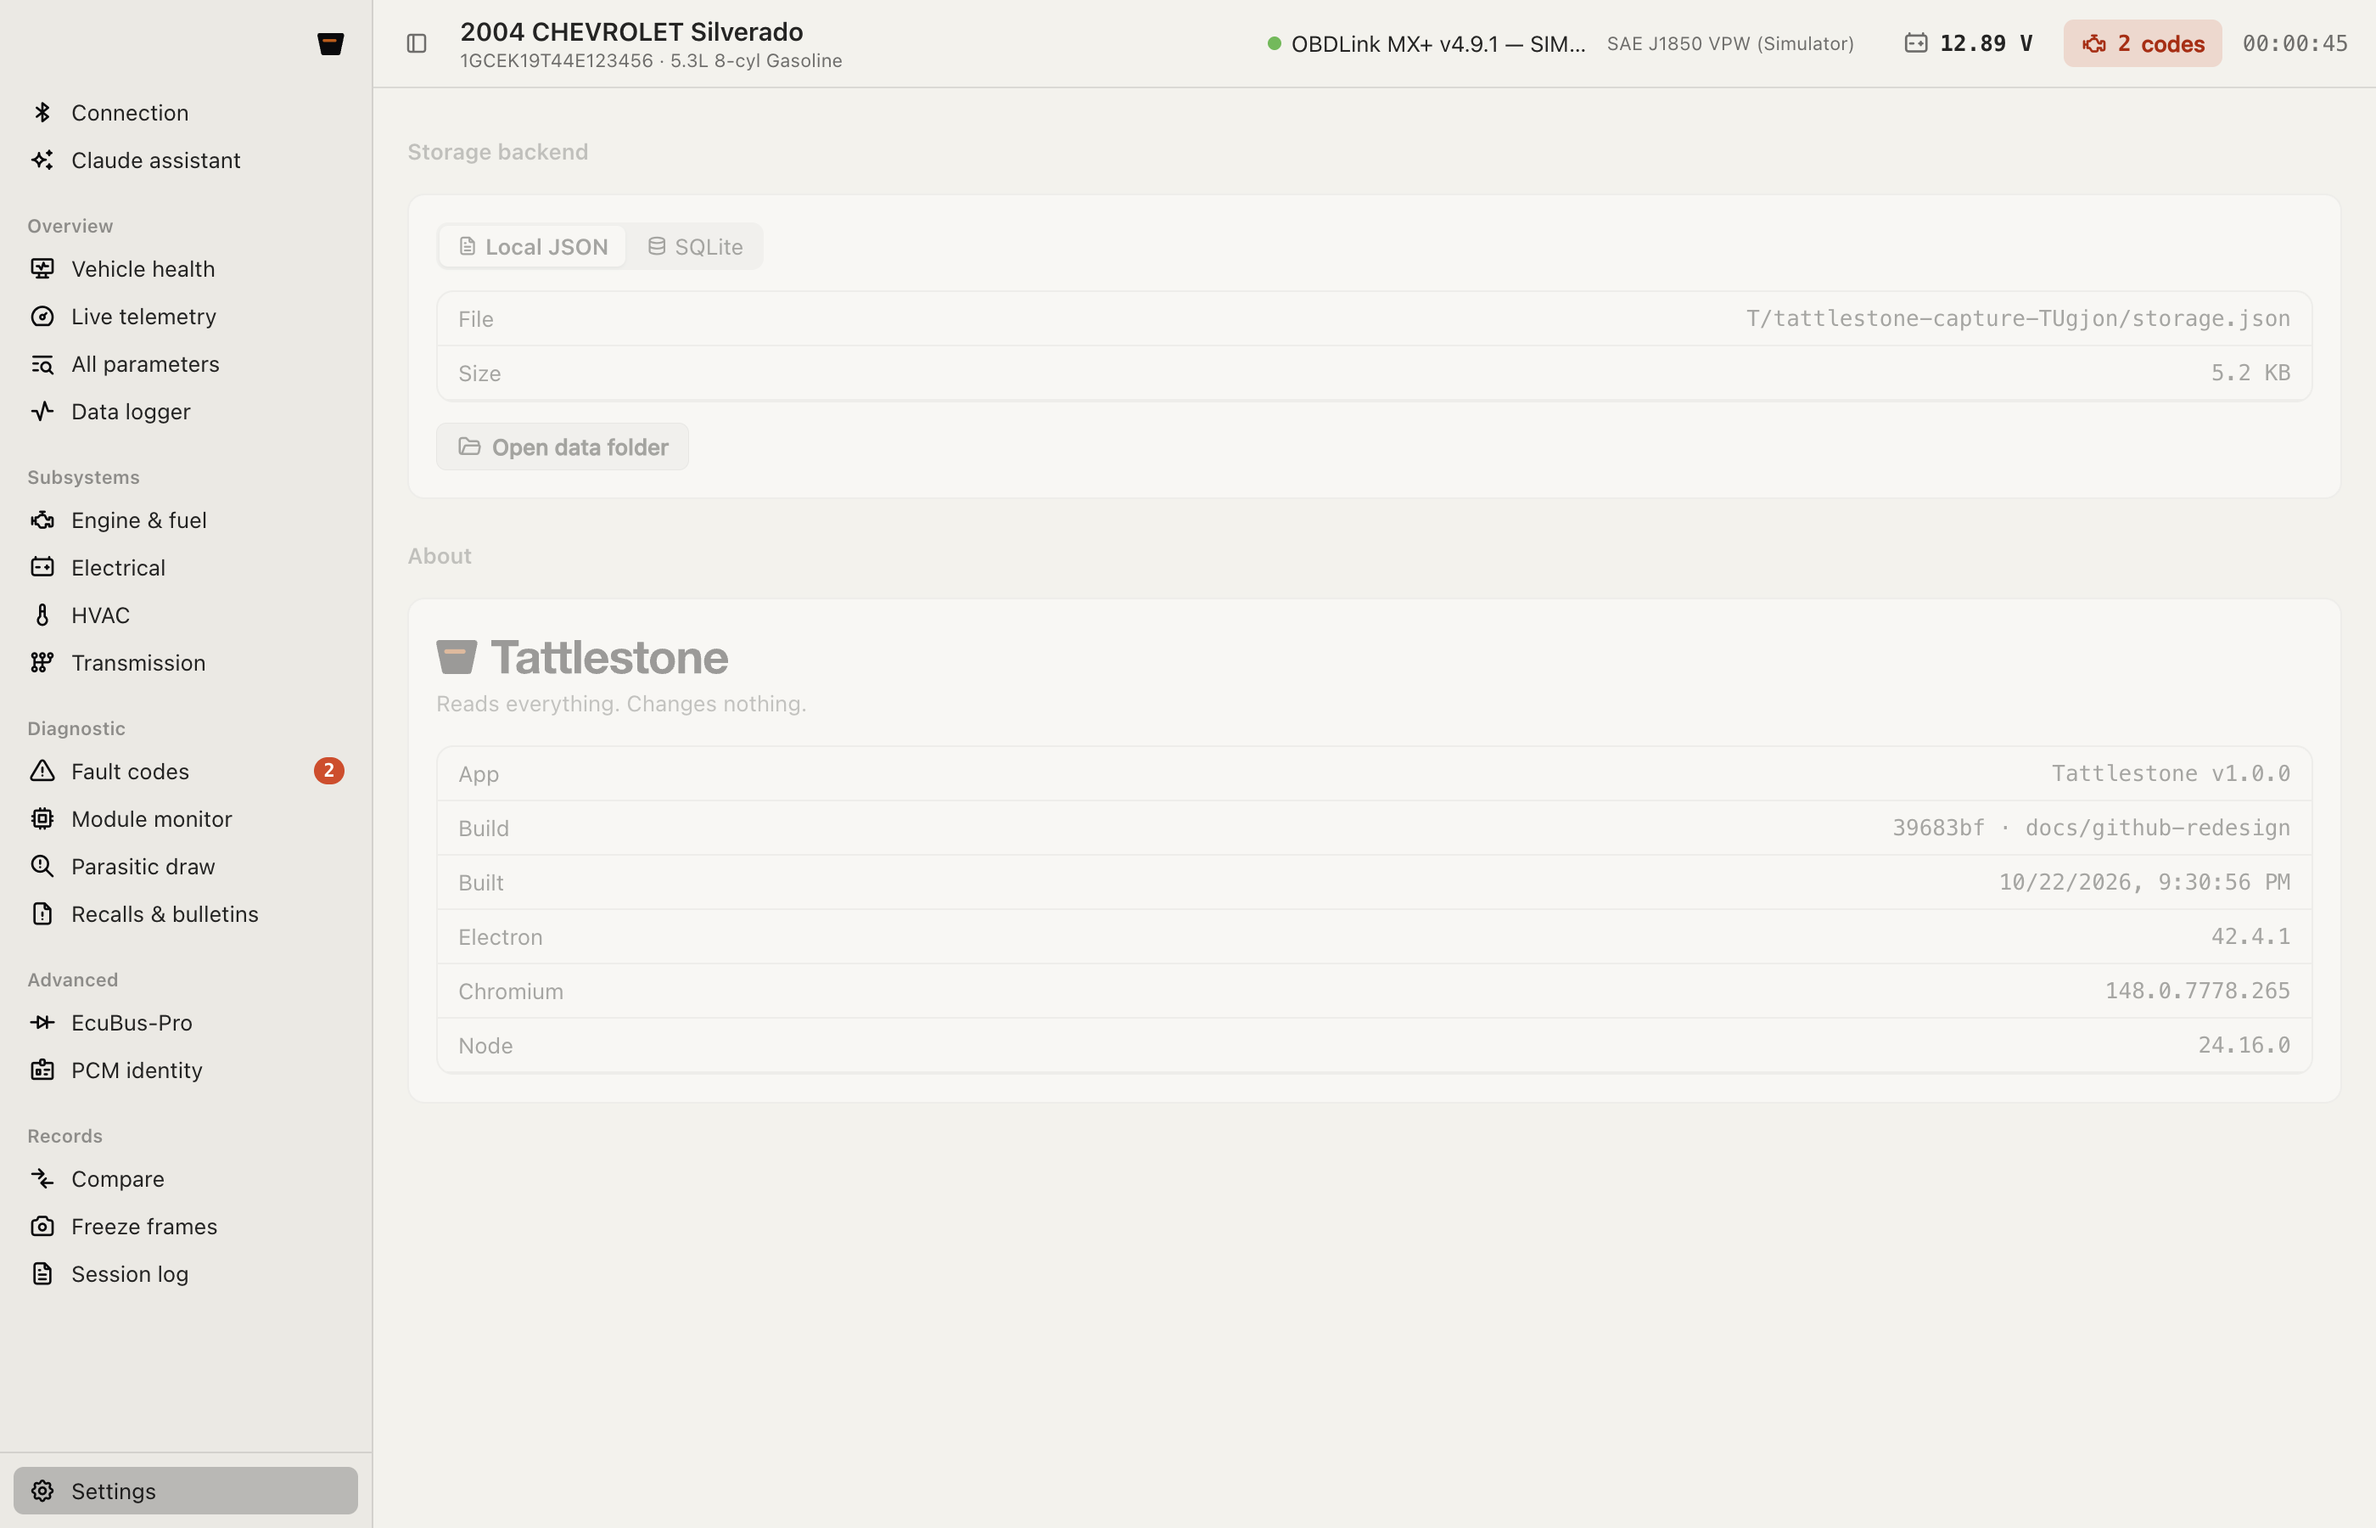
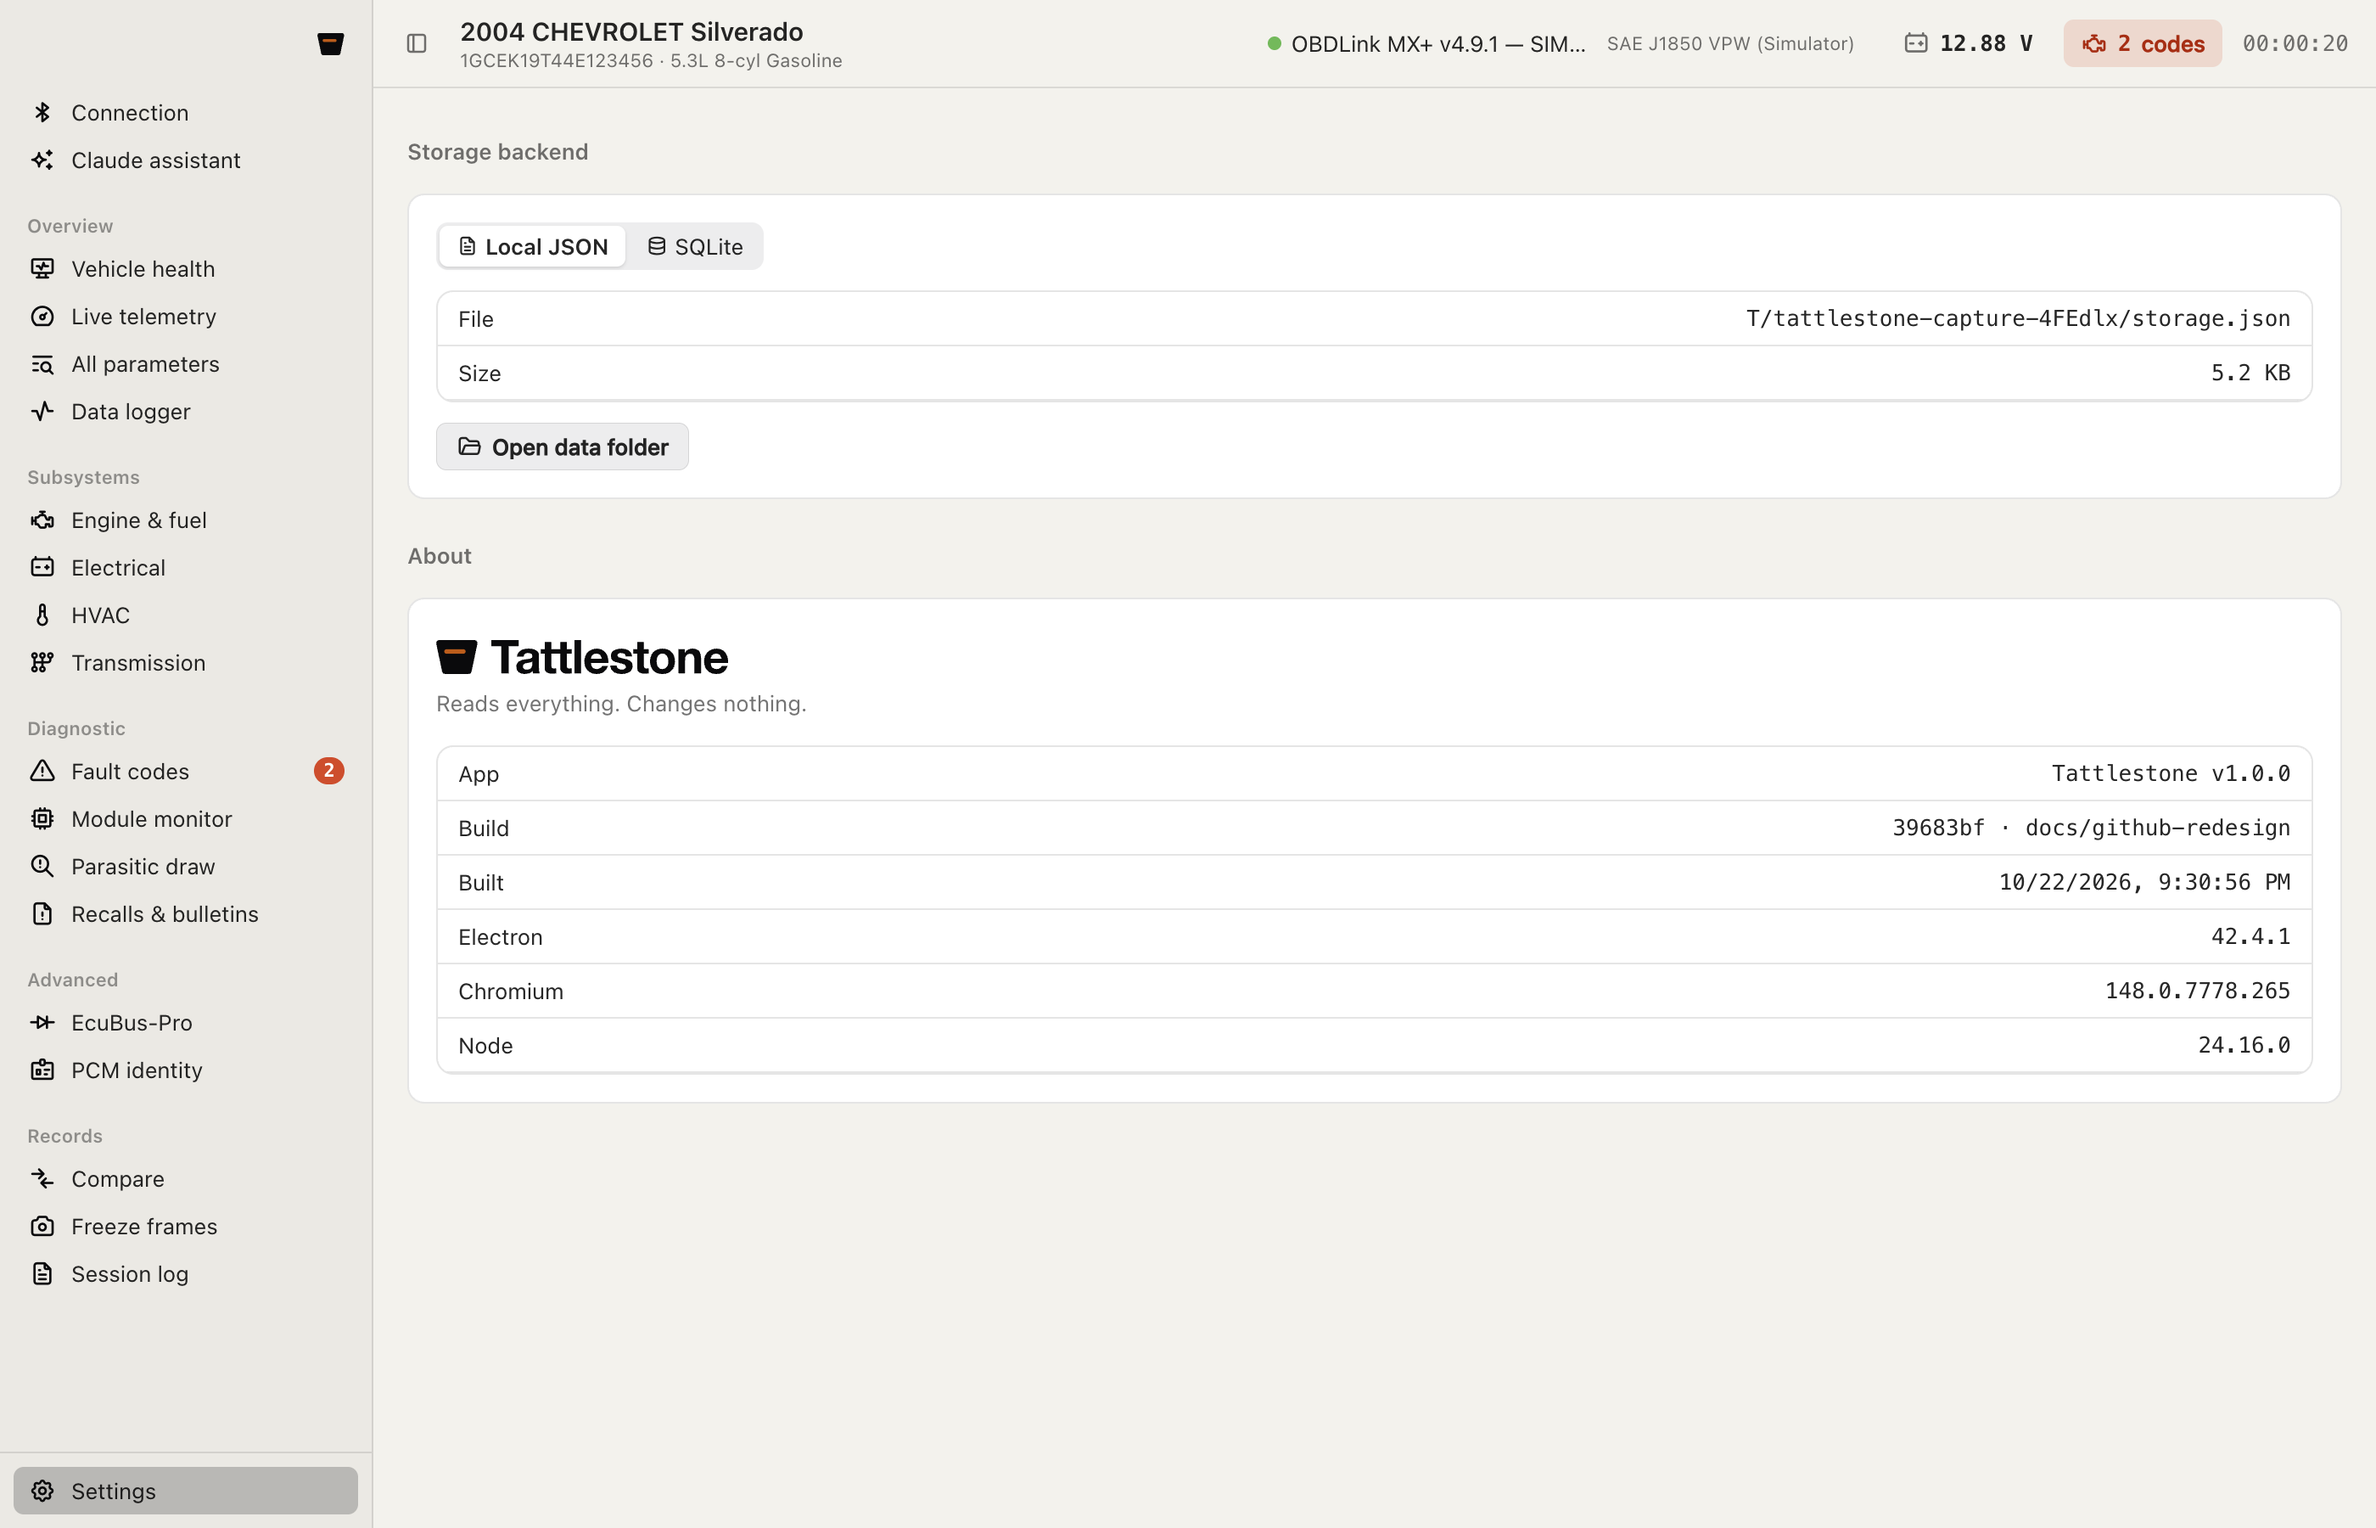
docs: fix review findings
- Bridge only drops Mode 04; say so instead of 'anything that clears codes'
- Node 22.12+ (Electron 42); install:app is Apple Silicon only
- No module wake detection exists; ARCHITECTURE no longer promises it
- Use the real UI labels: Network adapter / Connect over Wi-Fi
- Simulator scan finds two stored codes and one pending (app badge says 2)
- Recapture Settings: the 1200 ms wait caught it mid fade-in; now 2000 ms

diff --git a/docs/ARCHITECTURE.md b/docs/ARCHITECTURE.md
@@ -20,7 +20,7 @@ The app is built with Electron, React and TypeScript, and talks to an ELM327-cla
 │   main.ts ── window, IPC handlers, connection sessions              │
 │      │         (serialport, tcpPort for Network Mode, simulator)    │
 │      │                                                              │
-│   OBDProtocolManager ── poll loop, DTC scan, module wake check      │
+│   OBDProtocolManager ── poll loop, DTC scan, VIN read               │
 │      │                                                              │
 │   ELM327Commander ── AT command engine, timeouts, response framing  │
 │                                                                     │
@@ -76,7 +76,7 @@ ATRV     Live battery voltage
 - Cached for 30 minutes. NHTSA doesn't hold every service bulletin, and complaints are unverified owner reports.
 
 **Parasitic draw suite**
-- A module wake monitor. It polls known module addresses after key-off to find the one staying awake.
+- A module monitor that lists the platform's known modules by address with their draw risk. Wake detection isn't built yet, so module status stays "Unknown".
 - A battery voltage timeline over long sessions.
 - An interactive fuse map (interior panel and under-hood fuse/relay center), ordered by how likely each circuit is to cause a draw.
 - A step-by-step draw isolation procedure, driven by the resolved platform profile.
@@ -151,7 +151,7 @@ The full reference is [ui-styling.md](ui-styling.md). In short:
 │   │   │   ├── elm327Commander.ts     #   AT engine, timeouts, retries, read-only guard
 │   │   │   ├── elm327Simulator.ts     #   offline 2004 Silverado session
 │   │   │   ├── obdParsers.ts          #   reply parsing: messages, ISO-TP, DTCs, VIN, PIDs
-│   │   │   ├── obdProtocolManager.ts  #   poll loop, DTC scan, wake check
+│   │   │   ├── obdProtocolManager.ts  #   poll loop, DTC scan, VIN read
 │   │   │   ├── pidCatalog.ts          #   PID catalog, J1979 decode functions
 │   │   │   ├── dtcCatalog.generated.ts #  371 curated codes (see scripts/gen-dtc-catalog.ts)
 │   │   │   ├── dtcGeneric.generated.ts #  9,533 OBDex generic codes (npm run gen:obdex)

diff --git a/README.md b/README.md
@@ -64,7 +64,7 @@ Bluetooth only reaches a few metres, though, and a drain test runs overnight wit
 
 1. The truck's computers talk on a wire that comes out at the OBD-II port under the dashboard.
 2. The OBDLink adapter plugs into that port, listens, and sends what it hears over Bluetooth.
-3. The UNO Q picks that up and passes it to your Mac over Wi-Fi. If anything tries to clear codes on the way through, it drops the command.
+3. The UNO Q picks that up and passes it to your Mac over Wi-Fi. It also drops the standard clear-codes command (Mode 04) if anything sends one.
 4. Tattlestone shows it the same way it would if the adapter were paired with the Mac.
 5. Later, a small sensor on one fuse will measure the drain directly and send it the same way. That part isn't built yet.
 
@@ -72,7 +72,7 @@ The UNO Q can also pretend to be the truck, which is handy for testing the Wi-Fi
 
 ## Try it
 
-You don't need a truck for this. You do need Node.js 18 or newer and the Xcode command line tools.
+You don't need a truck for this. You do need an Apple Silicon Mac with Node.js 22.12 or newer and the Xcode command line tools installed.
 
 ```bash
 git clone https://github.com/jmjohns9/Tattlestone.git
@@ -83,7 +83,7 @@ npm run install:app
 
 1. Open Tattlestone from your Applications folder.
 2. Go to **Connection** and click **Launch Emulator**. A pretend 2004 Silverado shows up, with its battery slowly sinking from 12.89 V.
-3. Go to **Fault codes** and click **Scan** to find the three codes it's hiding.
+3. Go to **Fault codes** and click **Scan**. It finds two stored codes and one pending.
 
 ## What you need for a real truck
 

diff --git a/docs/DEVELOPING.md b/docs/DEVELOPING.md
@@ -4,7 +4,7 @@ How to build, run and test the app. For how it fits together, see [ARCHITECTURE.
 
 ## Prerequisites
 
-- **Node.js 18+.** Node 22 is recommended; the container builds on `node:22-bookworm`.
+- **Node.js 22.12 or newer.** Electron 42 requires it; the container builds on `node:22-bookworm`.
 - **macOS 13 Ventura or later** for the packaged app. Linux works for development and via Docker.
 - **A build toolchain for the native modules** (`serialport`, `better-sqlite3`):
   - On macOS, Xcode Command Line Tools (`xcode-select --install`).
@@ -48,7 +48,7 @@ Run these from `files/`.
 | `npm run dev` | Watch-mode development with hot reload |
 | `npm run build` | Compile the main process and bundle the renderer (production mode, no source maps) |
 | `npm run dist` | Build and package a macOS `.dmg` / `.zip` into `release/` via electron-builder |
-| `npm run install:app` | Build, ad-hoc sign and install `Tattlestone.app` into `/Applications` |
+| `npm run install:app` | Build, ad-hoc sign and install `Tattlestone.app` into `/Applications` (Apple Silicon only: it copies from `release/mac-arm64`) |
 | `npm run typecheck` | Type-check the renderer and the main process (against its own tsconfig) |
 | `npm test` | Run the `node:test` suites |
 | `npm run lint:styles <files>` | Check screens against the design-system styling rules |

diff --git a/docs/HARDWARE.md b/docs/HARDWARE.md
@@ -34,7 +34,7 @@ Setup guides, step by step:
 - [Wi-Fi bridge setup](uno-q/wifi-bridge-setup.html): copy the files, install the units, test with `nc`, connect from the app.
 - [OBDLink bind guide](uno-q/obdlink-bind-next-steps.html): pair the OBDLink with the board and bind `/dev/rfcomm0`.
 
-In the app, open **Connection**, choose **Network**, and enter the board's address with the port, for example `192.168.1.33:35000`.
+In the app, open **Connection**, find **Network adapter**, enter the board's address with the port (for example `192.168.1.33:35000`), and click **Connect over Wi-Fi**.
 
 ### Planned: measuring the drain directly
 
